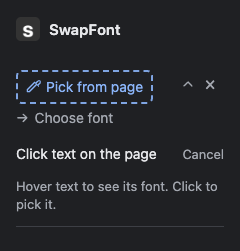
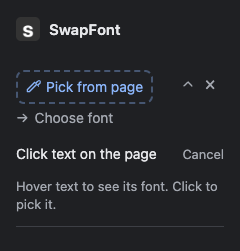
Preserve result clicks during page refreshes and soften picker border

Changed region(s): [[0.0583, 0.2789, 0.6417, 0.4183]]

diff --git a/extension/sidepanel.js b/extension/sidepanel.js
@@ -46,6 +46,7 @@ let catalogLoading = null;
 let matches = [];
 let activeIndex = -1;
 let pairsSignature = '';
+let resultsSignature = '';
 
 // Messaging
 
@@ -313,29 +314,34 @@ function renderResults(show) {
   if (activeIndex >= matches.length) activeIndex = matches.length - 1;
   els.results.hidden = !show || !catalog;
   els.search.setAttribute('aria-expanded', String(matches.length > 0));
-  els.results.replaceChildren(...matches.map((font, index) => {
-    const option = document.createElement('div');
-    option.id = `result-${index}`;
-    option.className = 'result';
-    option.setAttribute('role', 'option');
-    option.setAttribute('aria-selected', String(index === activeIndex));
-    option.dataset.index = index;
-    option.dataset.family = font.family;
-    option.textContent = font.family;
-    return option;
-  }));
-  if (show && catalog && !matches.length) {
-    els.results.append(Object.assign(document.createElement('p'), { className: 'results-empty', textContent: 'No fonts found' }));
+  const signature = JSON.stringify([show, Boolean(catalog), matches.map((font) => font.family)]);
+  // Page refreshes can arrive between pointer down and up. Keep the click target alive.
+  if (signature !== resultsSignature) {
+    resultsSignature = signature;
+    els.results.replaceChildren(...matches.map((font, index) => {
+      const option = document.createElement('div');
+      option.id = `result-${index}`;
+      option.className = 'result';
+      option.setAttribute('role', 'option');
+      option.setAttribute('aria-selected', String(index === activeIndex));
+      option.dataset.index = index;
+      option.dataset.family = font.family;
+      option.textContent = font.family;
+      return option;
+    }));
+    if (show && catalog && !matches.length) {
+      els.results.append(Object.assign(document.createElement('p'), { className: 'results-empty', textContent: 'No fonts found' }));
+    }
   }
-  setActive(activeIndex);
+  setActive(activeIndex, false);
 }
 
-function setActive(index) {
+function setActive(index, scroll = true) {
   activeIndex = matches.length ? Math.max(-1, Math.min(index, matches.length - 1)) : -1;
   for (const option of els.results.querySelectorAll('.result')) {
     const selected = Number(option.dataset.index) === activeIndex;
     option.setAttribute('aria-selected', String(selected));
-    if (selected) option.scrollIntoView({ block: 'nearest' });
+    if (selected && scroll) option.scrollIntoView({ block: 'nearest' });
   }
   if (activeIndex < 0) els.search.removeAttribute('aria-activedescendant');
   else els.search.setAttribute('aria-activedescendant', `result-${activeIndex}`);

diff --git a/extension/sidepanel.css b/extension/sidepanel.css
@@ -358,20 +358,20 @@ h1 img {
   gap: 4px;
   padding: 5px 8px;
   border: 2px dashed transparent;
-  border-radius: 6px;
+  border-radius: 8px;
   color: var(--accent);
 }
 .pair-awaiting .pair-from::after {
   position: absolute;
   inset: -2px;
-  border: 2px dashed var(--accent);
+  border: 2px dashed color-mix(in srgb, var(--accent) 80%, transparent);
   border-radius: inherit;
   pointer-events: none;
   content: '';
-  animation: picker-border 1.4s ease-in-out infinite;
+  animation: picker-border 1.6s ease-in-out infinite alternate;
 }
-@keyframes picker-border { 0%, 100% { opacity: 1; } 50% { opacity: 0.25; } }
-@media (prefers-reduced-motion: reduce) { .pair-awaiting .pair-from::after { animation: none; } }
+@keyframes picker-border { from { opacity: 0.45; } to { opacity: 0.9; } }
+@media (prefers-reduced-motion: reduce) { .pair-awaiting .pair-from::after { animation: none; opacity: 0.7; } }
 .pair-awaiting .pair-edit { gap: 4px; font-size: 14px; }
 .pair-awaiting .pair-to { color: var(--muted); font-weight: 400; }
 #messages-home:has(.note:empty):has(.error[hidden]) { display: none; }

diff --git a/docs/verification.md b/docs/verification.md
@@ -1,8 +1,8 @@
 # Verification
 
-Verified 2026-10-08T04:04:26.783Z on macOS arm64, Node 24, Chrome for Testing 152.0.7977.75.
+Verified 2026-10-08T04:14:02.806Z on macOS arm64, Node 24, Chrome for Testing 152.0.7977.75.
 
-Manifest and syntax checks passed. Five unit tests passed. All 37 end-to-end browser checks passed. Font downloads were real, and Chrome's CSS protocol confirmed Lora glyphs in the rendered heading.
+Manifest and syntax checks passed. Five unit tests passed. All 38 end-to-end browser checks passed. Font downloads were real, and Chrome's CSS protocol confirmed Lora glyphs in the rendered heading.
 
 The fixture browser used loopback-only permissions in a temporary manifest copy to exercise permitted frames. The native-panel browser used the exact production manifest and a real toolbar action. Test browsers, fixture servers and temporary profiles were closed.
 
@@ -33,6 +33,7 @@ The fixture browser used loopback-only permissions in a temporary manifest copy 
 - Undo all restores simultaneous swaps across permitted frames
 - restricted browser page reports unsupported action
 - production manifest toolbar gesture opens native panel and grants activeTab
+- a page state update between native pointer press and release preserves the result and applies the font
 - saved pair opens and closes inline without removing the pair or changing the applied font
 - native panel searches, applies instantly, edits by keyboard and undoes on public iana.org
 - adding a font opens a blinking dashed source placeholder that wraps at 240px with picking controls inside its accordion; Cancel preserves swaps
@@ -95,7 +96,7 @@ The second pick uses a search icon, Search Google Fonts label and placeholder, a
 
 The panel follows the supplied three-state reference. A pending source row opens one replacement picker containing search, Pick from page and results. Applied swaps become compact rows with muted source names, bold destinations, chevrons and separate remove buttons. Numbered cards and the repeated source box are gone. Row and Notes chevrons are SVG icons. Notes retains native mouse and keyboard disclosure behavior. The updated drawing.svg supplies all icon sizes, and the extension is named SwapFont.
 
-Manifest and syntax checks, five unit tests and all 37 browser checks passed. The new pending-row check confirms closing, reopening and discarding a choice preserves an existing swap. Visually checked the native Chrome panel at 320px in light and dark themes.
+Manifest and syntax checks, five unit tests and all 38 browser checks passed. The new pending-row check confirms closing, reopening and discarding a choice preserves an existing swap. Visually checked the native Chrome panel at 320px in light and dark themes.
 
 ![Compact picker in dark theme](compact-search-dark.png)
 
@@ -107,7 +108,7 @@ Manifest and syntax checks, five unit tests and all 37 browser checks passed. Th
 
 Starting another source pick opens a pending accordion with a blinking dashed Pick from page label, eyedropper icon, instructions and Cancel inside it. Loading and errors appear in the active row. A temporary on-page eyedropper badge says Pick a font or Pick replacement font. Both pickers use a hand cursor, thin blue outline, translucent fill and font-name tooltip on text. Picking or Escape restores the site's cursor, outline and background. Escape also cancels other permitted frames.
 
-Browser checks cover custom important cursors, restoration on picking and Escape, shadow text, frame cancellation, badge removal, and cancelling a pending accordion without opening or changing an existing swap. Visually checked picking feedback on light and dark blue page backgrounds.
+Browser checks cover custom important cursors, restoration on picking and Escape, shadow text, frame cancellation, badge removal, and cancelling a pending accordion without opening or changing an existing swap. Visually checked picking feedback on light and dark blue page backgrounds. The source placeholder uses an 8px rounded 2px dashed border, a muted blue and a border-only opacity pulse. Reduced motion keeps it static. Unchanged result nodes survive page state updates, preventing a press/release click from being lost; passive updates also preserve list scroll position.
 
 ![Waiting accordion](waiting-dark.png)
 

diff --git a/UI-CONTRACT.md b/UI-CONTRACT.md
@@ -16,6 +16,6 @@ State includes {tabId,frameId,url,source,destination,selection,count,pageFonts,a
 
 Listen for STATE_CHANGED {tabId,state}. Reconnect on tabs.onActivated and tabs.onUpdated complete. Ignore stale responses and updates for other tabs. Show state.error and command failures; preserve current swaps on failure. Loading blocks duplicate choices. Use textContent for dynamic text.
 
-Starting a source pick opens a pending accordion with a blinking 2px dashed Pick from page source label and eyedropper icon. Its instructions and Cancel control stay inside that row. Adding another font uses the same pending accordion. Loading and errors belong to the active accordion. After picking, show a compact source → Choose font row. Its open editor contains Search Google Fonts, an eyedropper Pick from page action, and the results separated by a divider. These belong to the row, with no numbered cards or repeated source box. Choosing a result applies immediately and collapses the row. Only one row opens at a time. Opening, closing and switching rows preserves all applied swaps. A separate × removes a pair. One unfinished row can be closed, reopened or discarded without affecting existing swaps. Pick another font and Undo all remain available. No Apply, Compare, scope radios, category filters, snippets, or metadata. Short picker hint with Cancel. Warnings may use a small disclosure. Stack font labels when they do not fit, with no ellipsis. Disable border animation for reduced motion. Keep 240px and 320px layout, light/dark themes, focus styles and keyboard search navigation. Arrow keys browse; Enter or click commits. Focus returns to the changed row after choosing. No all-caps subtitles or em dashes.
+Starting a source pick opens a pending accordion with a blinking 2px dashed Pick from page source label and eyedropper icon. Its instructions and Cancel control stay inside that row. Adding another font uses the same pending accordion. Loading and errors belong to the active accordion. After picking, show a compact source → Choose font row. Its open editor contains Search Google Fonts, an eyedropper Pick from page action, and the results separated by a divider. These belong to the row, with no numbered cards or repeated source box. Choosing a result applies immediately and collapses the row. Only one row opens at a time. Opening, closing and switching rows preserves all applied swaps. A separate × removes a pair. One unfinished row can be closed, reopened or discarded without affecting existing swaps. Pick another font and Undo all remain available. No Apply, Compare, scope radios, category filters, snippets, or metadata. Short picker hint with Cancel. Warnings may use a small disclosure. Stack font labels when they do not fit, with no ellipsis. Use 8px rounded corners and a muted blue border-only pulse. Disable border animation for reduced motion. Keep 240px and 320px layout, light/dark themes, focus styles and keyboard search navigation. Arrow keys browse; Enter or click commits. Focus returns to the changed row after choosing. No all-caps subtitles or em dashes.
 
 The source, apply, compare, element scope and sample actions remain internal compatibility APIs. They are not part of this simplified UI.
